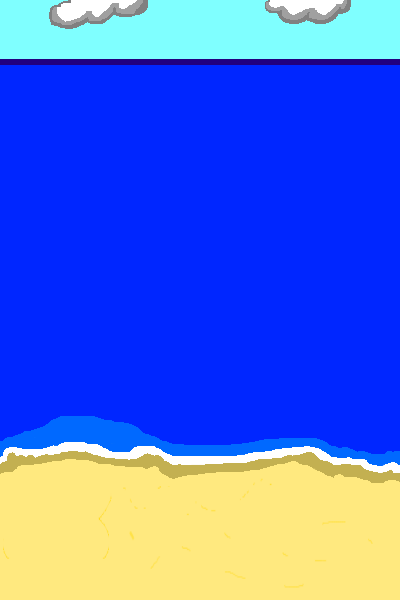
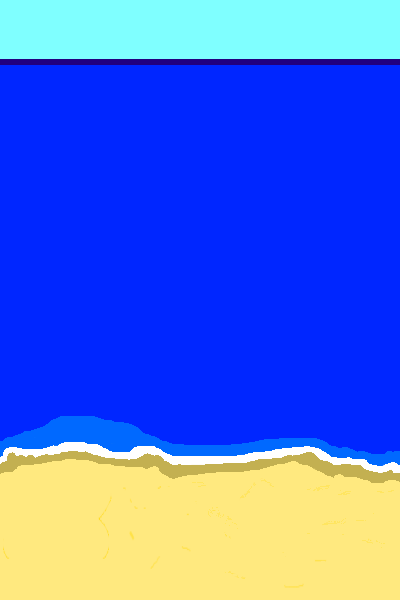
clouds are moving

Changed region(s): [[0.12, 0.0, 0.39, 0.06], [0.66, 0.0, 0.9, 0.06], [0.78, 0.81, 0.81, 0.84]]

diff --git a/src/scenes/beach-scene.js b/src/scenes/beach-scene.js
@@ -9,29 +9,6 @@ export class BeachScene extends Phaser.Scene {
         super({ key: 'BeachScene' });
     }
 
-    preload() {
-        this.load.image('bg', 'assets/background2.png');
-        this.load.spritesheet('player', 'assets/dude.png', { frameWidth: 16, frameHeight: 16 });
-        this.load.spritesheet('visitor-drowning', 'assets/visitor-2-drowning.png', { frameWidth: 16, frameHeight: 16 });
-        this.load.spritesheet('player-swim', 'assets/dude-swimming.png', { frameWidth: 16, frameHeight: 16 });
-        this.load.spritesheet('visitor-1-resting', 'assets/visitor-1-resting.png', { frameWidth: 16, frameHeight: 16 });
-        this.load.spritesheet('visitor-2-resting', 'assets/visitor-2-resting.png', { frameWidth: 16, frameHeight: 16 });
-        this.load.spritesheet('visitor-2-walk', 'assets/visitor-2-walk.png', { frameHeight: 16, frameWidth: 16 });
-        this.load.spritesheet('visitor-2-drowning-2', 'assets/visitor-2-drowning-2.png', { frameHeight: 16, frameWidth: 16 });
-        this.load.spritesheet('player-idle', 'assets/dude-idle.png', { frameHeight: 16, frameWidth: 16 });
-        this.load.spritesheet('corn-cart', 'assets/corn-cart.png', { frameHeight: 16, frameWidth: 16 });
-
-        this.load.image('donut', 'assets/donut.png');
-        this.load.image('blanket', 'assets/blanket-green.png');
-
-        this.load.audio('waves', ['assets/ocean-waves.wav']);
-        this.load.audio('whistle', 'assets/whistle.wav');
-
-        if (!this.textures.exists('sand')) {
-            this.textures.generate('sand', { data: ['6'], pixelWidth: 1, pixelHeight: 1 });
-        }
-    }
-
     create(data) {
         this.runIntro = false;
 
@@ -51,13 +28,13 @@ export class BeachScene extends Phaser.Scene {
         this.saveBounty = 9 + this.dayNumber;
 
         this.bg = this.add.image(0, 0, 'bg').setOrigin(0);
+        this.cloud1 = this.add.image(data.cloud1x, 0, 'cloud-1').setOrigin(0);
+        this.cloud2 = this.add.image(data.cloud2x, 0, 'cloud-2').setOrigin(0);
+        this.cloud1.cloudSpeed = data.cloud1speed;
+        this.cloud2.cloudSpeed = data.cloud2speed;
 
         this.visitors = this.physics.add.group();
         this.generateVisitors(6 + this.dayNumber + Phaser.Math.Between(0, this.dayNumber));
-
-        // this.smartVisitor = new SmartVisitor(this, 200, 230 + this.cameraScroll, 'visitor-1-resting');
-        // this.smartVisitor.type = 1;
-        // this.add.existing(this.smartVisitor);
 
         // player
         this.player = new Player(this, 300, 250 + this.cameraScroll, 'player');
@@ -168,6 +145,11 @@ export class BeachScene extends Phaser.Scene {
 
         if (this.runIntro === true) {
             this.scrollCamera();
+        }
+
+        if (this.cameras.main.scrollY < 50) {
+            this.moveCloud(this.cloud1);
+            this.moveCloud(this.cloud2);
         }
     }
 
@@ -281,7 +263,7 @@ export class BeachScene extends Phaser.Scene {
 
         this.anims.create({
             key: 'visitor-idle',
-            frames: this.anims.generateFrameNames('visitor-2-walk', {end: 0}),
+            frames: this.anims.generateFrameNames('visitor-2-walk', { end: 0 }),
             frameRate: 0
         });
     }
@@ -332,7 +314,11 @@ export class BeachScene extends Phaser.Scene {
             if (1 === progress) {
                 this.scene.start('BeachScene', {
                     dayNumber: ++this.dayNumber,
-                    score: this.score
+                    score: this.score,
+                    cloud1x: Phaser.Math.Between(200, 400),
+                    cloud2x: Phaser.Math.Between(0, 200),
+                    cloud1speed: this.cloud1.cloudSpeed,
+                    cloud2speed: this.cloud2.cloudSpeed
                 });
             }
         });
@@ -356,5 +342,14 @@ export class BeachScene extends Phaser.Scene {
                 })
             }
         };
+    }
+
+    moveCloud(cloud) {
+        if (cloud.x < -cloud.width) {
+            cloud.x = 400 + cloud.width + 50;
+            cloud.cloudSpeed = Phaser.Math.FloatBetween(.2, .5);
+        }
+
+        cloud.x -= cloud.cloudSpeed;
     }
 }

diff --git a/src/scenes/menu-scene.js b/src/scenes/menu-scene.js
@@ -8,7 +8,28 @@ export class MenuScene extends Phaser.Scene {
 
     preload() {
         this.load.image('bg', 'assets/background2.png');
+        this.load.spritesheet('player', 'assets/dude.png', { frameWidth: 16, frameHeight: 16 });
+        this.load.spritesheet('visitor-drowning', 'assets/visitor-2-drowning.png', { frameWidth: 16, frameHeight: 16 });
+        this.load.spritesheet('player-swim', 'assets/dude-swimming.png', { frameWidth: 16, frameHeight: 16 });
+        this.load.spritesheet('visitor-1-resting', 'assets/visitor-1-resting.png', { frameWidth: 16, frameHeight: 16 });
+        this.load.spritesheet('visitor-2-resting', 'assets/visitor-2-resting.png', { frameWidth: 16, frameHeight: 16 });
+        this.load.spritesheet('visitor-2-walk', 'assets/visitor-2-walk.png', { frameHeight: 16, frameWidth: 16 });
+        this.load.spritesheet('visitor-2-drowning-2', 'assets/visitor-2-drowning-2.png', { frameHeight: 16, frameWidth: 16 });
+        this.load.spritesheet('player-idle', 'assets/dude-idle.png', { frameHeight: 16, frameWidth: 16 });
+        this.load.spritesheet('corn-cart', 'assets/corn-cart.png', { frameHeight: 16, frameWidth: 16 });
+
+        this.load.image('donut', 'assets/donut.png');
+        this.load.image('blanket', 'assets/blanket-green.png');
+
         this.load.audio('waves', ['assets/ocean-waves.wav']);
+        this.load.audio('whistle', 'assets/whistle.wav');
+
+        if (!this.textures.exists('sand')) {
+            this.textures.generate('sand', { data: ['6'], pixelWidth: 1, pixelHeight: 1 });
+        }
+
+        this.load.image('cloud-1', 'assets/cloud-1.png');
+        this.load.image('cloud-2', 'assets/cloud-2.png');
     }
 
     create(data) {
@@ -18,16 +39,36 @@ export class MenuScene extends Phaser.Scene {
         }
 
         this.bg = this.add.image(0, 0, 'bg').setOrigin(0);
+        this.cloud1 = this.add.image(300, 0, 'cloud-1').setOrigin(0);
+        this.cloud2 = this.add.image(150, 0, 'cloud-2').setOrigin(0);
+
+        this.cloud1.cloudSpeed = Phaser.Math.FloatBetween(.2, .5);
+        this.cloud2.cloudSpeed = Phaser.Math.FloatBetween(.2, .5);
 
         // button
         let startButton = new TextButton(this, 180, 100, 'START', null, () => {
-            this.scene.start('BeachScene');
+            this.scene.start('BeachScene', {
+                cloud1x: this.cloud1.x, cloud2x: this.cloud2.x,
+                cloud1speed: this.cloud1.cloudSpeed,
+                cloud2speed: this.cloud2.cloudSpeed
+            });
         });
 
         this.add.existing(startButton);
     }
 
     update(time, delta) {
+        this.moveCloud(this.cloud1);
+        this.moveCloud(this.cloud2);
+    }
+
+    moveCloud(cloud) {
+        if (cloud.x < -cloud.width) {
+            cloud.x = 400 + cloud.width + 50;
+            cloud.cloudSpeed = Phaser.Math.FloatBetween(.2, .5);
+        }
+
+        cloud.x -= cloud.cloudSpeed;
     }
 
 }
